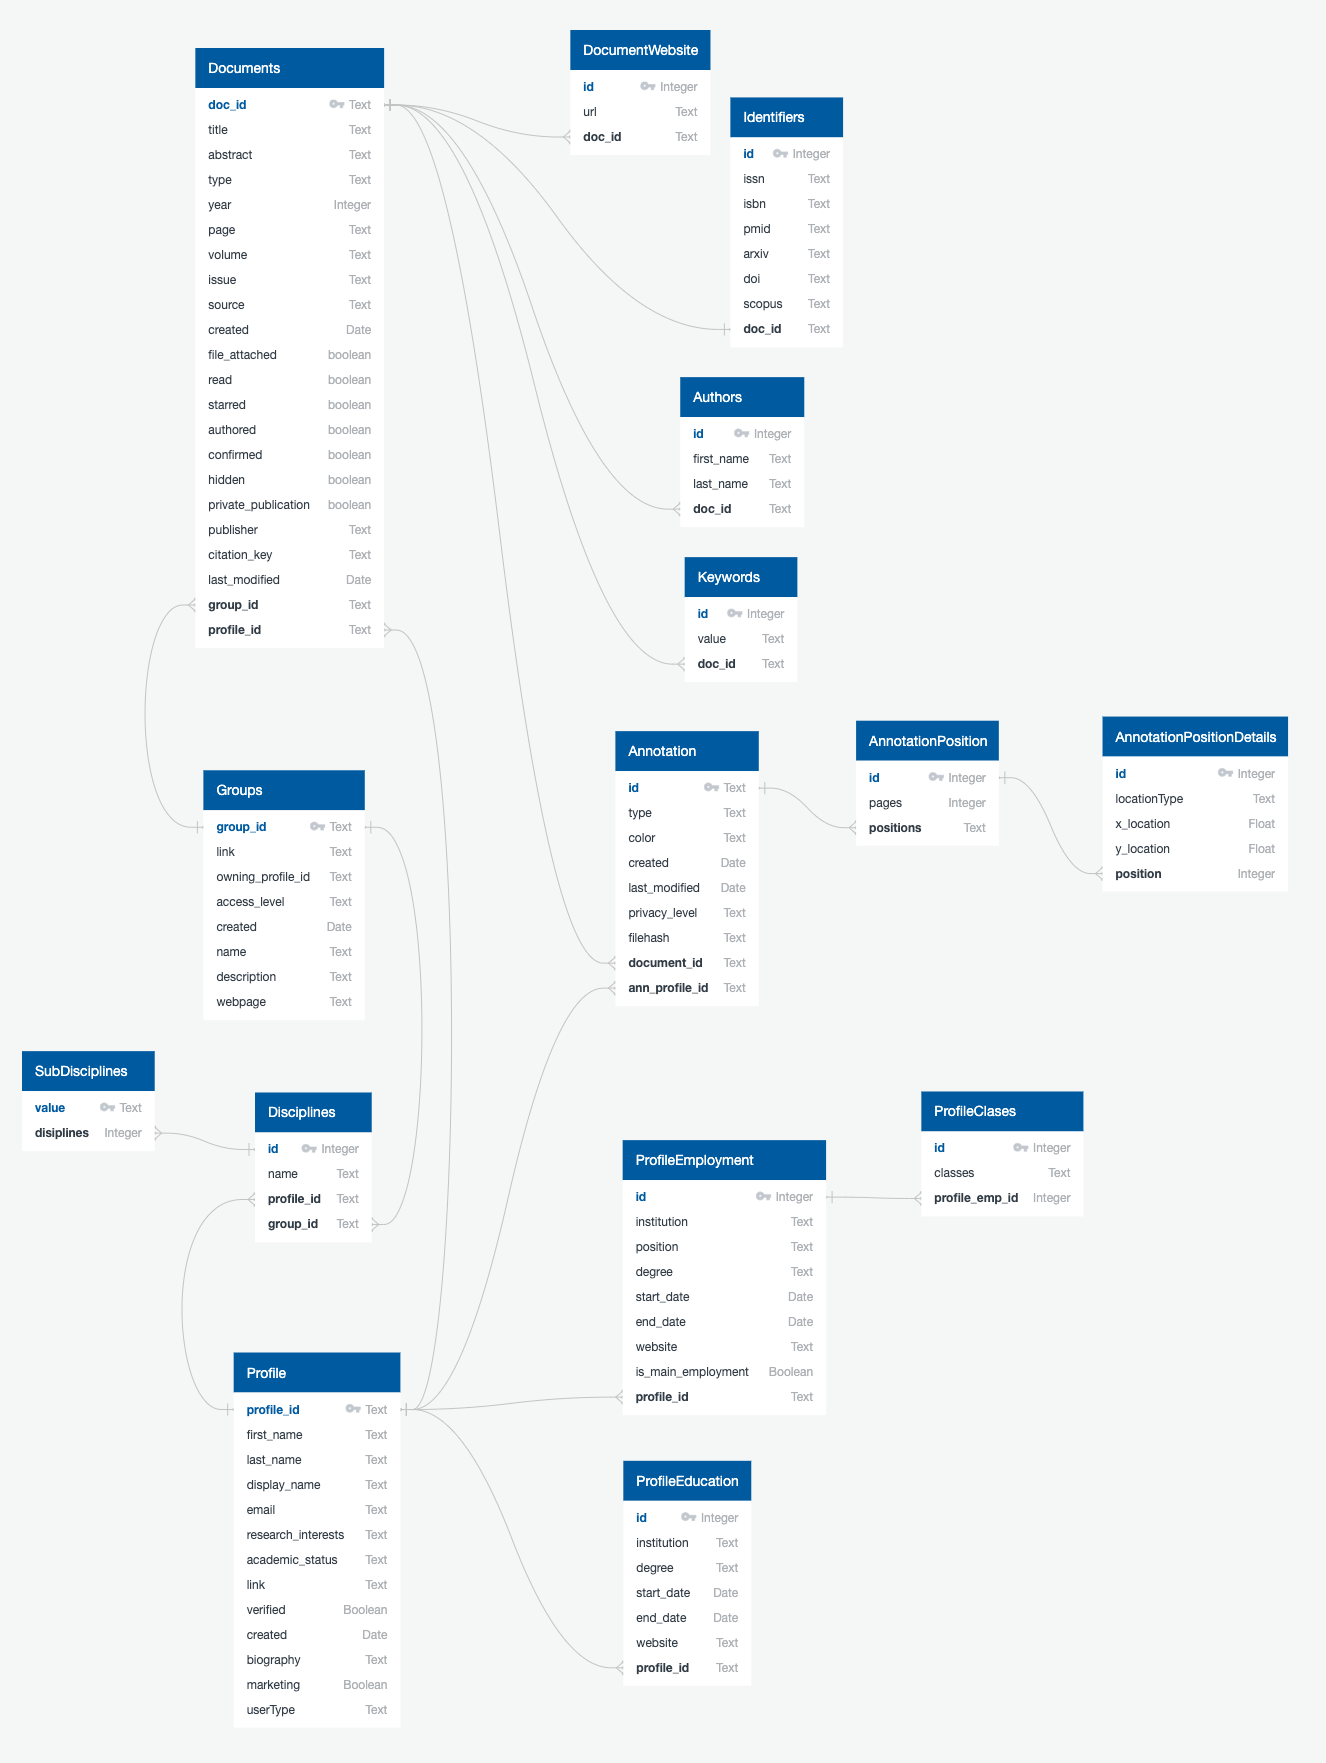
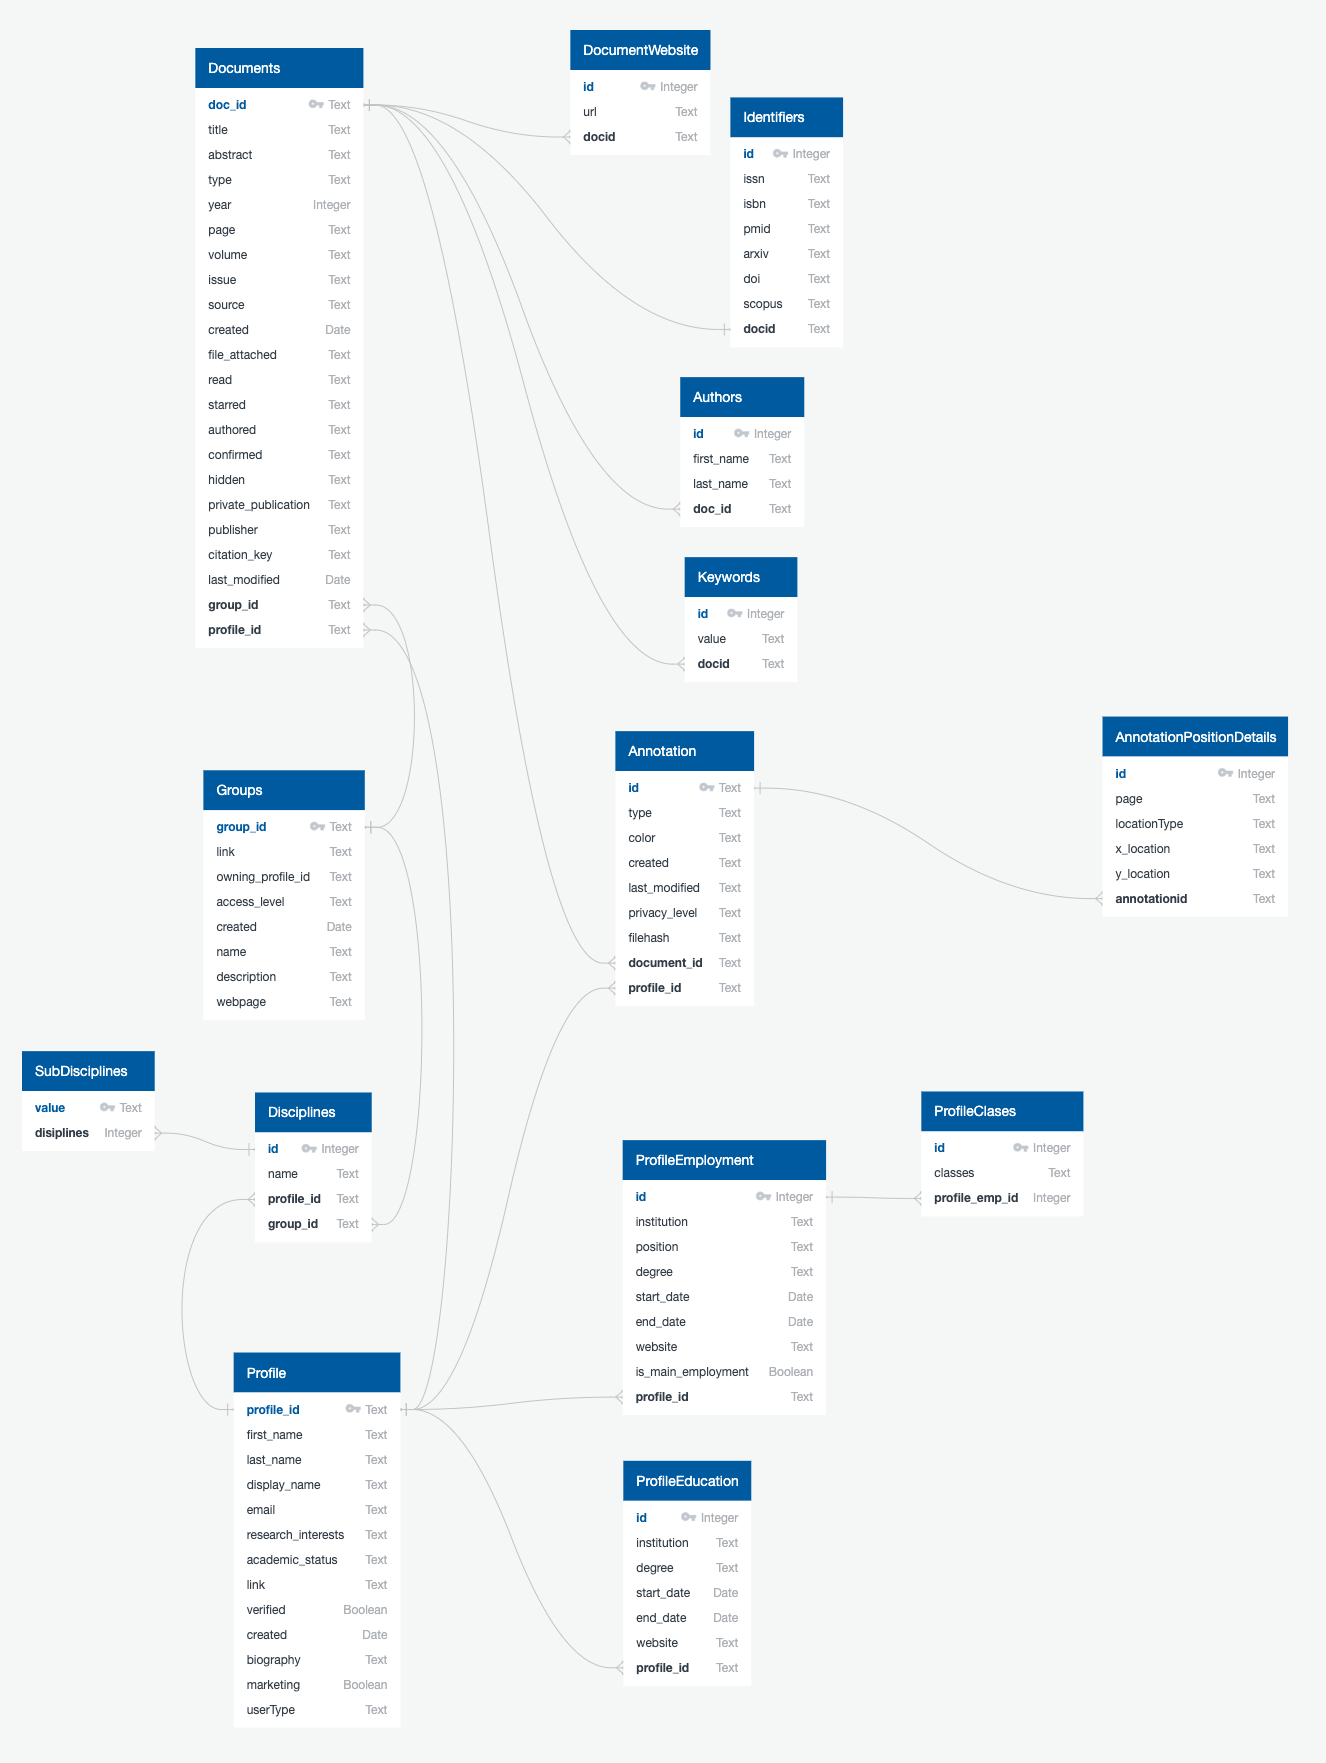
Mendeley Data Extraction Through Api
Extracting data from API and storing it in a sqlite file

diff --git a/mendeley/database/extract_database.py b/mendeley/database/extract_database.py
@@ -1,12 +1,119 @@
 import os
+import sqlite3
 
 import requests
 import yaml
-from pprint import pprint
 from mendeley import Mendeley
 from mendeley.session import MendeleySession
-from sqlobject import *
+import enum
 
+
+####################
+#   ENUM
+####################
+class TABLE(enum.Enum):
+    CREATE_DOCUMENT_TABLE = "document"
+    CREATE_DOCUMENT_WEBSITE_TABLE = "document_website"
+    CREATE_DOCUMENT_IDENTIFIERS = "identifiers"
+    CREATE_DOCUMENT_AUTHORS = "authors"
+    CREATE_KEYWORDS = "keywords"
+    CREATE_ANNOTATION_TABLE = "annotation"
+    CREATE_ANNOTATION_POSITION_TABLE = "annotation_position"
+
+
+####################
+#   Database Queries
+####################
+CREATE_DOCUMENT_TABLE = """CREATE TABLE IF NOT EXISTS document ( 
+                                id TEXT PRIMARY KEY,
+                                title TEXT,
+                                abstract TEXT,
+                                type TEXT, 
+                                year Integer,
+                                pages TEXT,
+                                volume TEXT,
+                                issue TEXT,
+                                source TEXT,
+                                created TEXT,
+                                file_attached TEXT DEFAULT 'false',
+                                read TEXT DEFAULT 'false',
+                                starred TEXT DEFAULT 'false',
+                                authored TEXT DEFAULT 'false',
+                                confirmed TEXT DEFAULT 'false',
+                                hidden TEXT DEFAULT 'false',
+                                private_publication TEXT DEFAULT 'false',  
+                                publisher TEXT, 
+                                citation_key TEXT,
+                                last_modified TEXT,
+                                group_id TEXT, 
+                                profile_id TEXT);          
+                        """
+CREATE_DOCUMENT_WEBSITE_TABLE = """CREATE TABLE IF NOT EXISTS document_website (
+                                        id Integer PRIMARY KEY AUTOINCREMENT, 
+                                        url TEXT,
+                                        docid TEXT NOT NULL ,
+                                        FOREIGN KEY (docid) REFERENCES document(id));
+                                """
+
+CREATE_DOCUMENT_IDENTIFIERS = """CREATE TABLE IF NOT EXISTS identifiers (
+                                    id Integer PRIMARY KEY AUTOINCREMENT, 
+                                    issn TEXT, 
+                                    isbn TEXT, 
+                                    pmid TEXT, 
+                                    arxiv TEXT, 
+                                    doi TEXT, 
+                                    scopus TEXT, 
+                                    docid TEXT NOT NULL, 
+                                    FOREIGN KEY (docid) REFERENCES document(id)); 
+                              """
+
+CREATE_DOCUMENT_AUTHORS = """CREATE TABLE IF NOT EXISTS authors (
+                                id Integer PRIMARY KEY AUTOINCREMENT, 
+                                first_name TEXT,
+                                last_name TEXT, 
+                                docid TEXT NOT NULL, 
+                                FOREIGN KEY (docid) REFERENCES document(id));
+                          """
+
+CREATE_KEYWORDS = """CREATE TABLE IF NOT EXISTS keywords (
+                        id Integer PRIMARY KEY AUTOINCREMENT,
+                        value TEXT, 
+                        docid TEXT NOT NULL, 
+                        FOREIGN KEY (docid) REFERENCES document(id)); 
+                  """
+
+CREATE_ANNOTATION_TABLE = """
+                            CREATE TABLE IF NOT EXISTS annotation (
+                                id Text PRIMARY KEY,
+                                type Text,
+                                text Text,
+                                color Text,
+                                created Text, 
+                                last_modified Text, 
+                                filehash Text, 
+                                document_id Text, 
+                                profile_id Text,
+                                privacy_level Text, 
+                                FOREIGN KEY (document_id) REFERENCES document(id)); 
+                          """
+
+CREATE_ANNOTATION_POSITION_TABLE = """
+                                    CREATE TABLE IF NOT EXISTS annotation_position (
+                                        id Integer PRIMARY KEY AUTOINCREMENT, 
+                                        page TEXT NOT NULL, 
+                                        location_type TEXT NOT NULL, 
+                                        xvalue TEXT NOT NULL, 
+                                        yvalue TEXT NOT NULL, 
+                                        annotationid TEXT NOT NULL, 
+                                        FOREIGN KEY (annotationid) REFERENCES annotation(id));
+                                    """
+
+
+####################
+#   Configuration
+#       - Mendeley
+#       - Database
+####################
 
 def getConfig(filename: str) -> dict:
     """
@@ -55,14 +162,53 @@ def connect_to_db():
     """
     Connect to the sqlite database
     """
-    db_filename = os.path.abspath('mendeley.sqlite')
-    connection_url = "sqlite:" + db_filename
-    connection = connectionForURI(connection_url)
-    sqlhub.processConnection = connection
-    return sqlhub.processConnection
+    try:
+        db_filename = os.path.abspath('mendeley.sqlite')
+        connection = sqlite3.connect(db_filename)
+        if connection is not None:
+            create_sqlite_table(connection, CREATE_DOCUMENT_TABLE)
+            create_sqlite_table(connection, CREATE_DOCUMENT_WEBSITE_TABLE)
+            create_sqlite_table(connection, CREATE_KEYWORDS)
+            create_sqlite_table(connection, CREATE_DOCUMENT_AUTHORS)
+            create_sqlite_table(connection, CREATE_DOCUMENT_IDENTIFIERS)
+            create_sqlite_table(connection, CREATE_ANNOTATION_TABLE)
+            create_sqlite_table(connection, CREATE_ANNOTATION_POSITION_TABLE)
+            return connection
+        else:
+            raise Exception("Cannot Connect to Database!")
+    except sqlite3.Error as error:
+        print(error)
 
 
-def get_all_document_by_group(session: MendeleySession, groupId: str) -> dict:
+def create_sqlite_table(connection, query: str):
+    cursor = connection.cursor()
+    try:
+        cursor.execute(query)
+    except sqlite3.Error as error:
+        cursor.rollback()
+        print(error)
+    finally:
+        cursor.close()
+
+
+def insert_data(connection, data, table: str):
+    cursor = connection.cursor()
+    try:
+        keys = tuple(data.keys())
+        values = tuple(data.values())
+        insert_query = "INSERT INTO {}{} VALUES {};".format(table, keys, values)
+        cursor.execute(insert_query)
+    except sqlite3.Error as error:
+        print(error)
+    finally:
+        cursor.close()
+
+
+####################
+#   Retrieving Data
+####################
+
+def get_all_document_by_group(session: MendeleySession, groupId: str) -> list:
     """
     Get All the documents by group
     Save the data to database
@@ -72,9 +218,8 @@ def get_all_document_by_group(session: MendeleySession, groupId: str) -> dict:
     if len(groupId) == 0:
         raise ValueError('Mendeley Database: No Group Id Provided!')
     access_token = session.token['access_token']
-    print(access_token)
     headers = {'Authorization': 'Bearer {}'.format(access_token)}
-    params = {'group_id': groupId}
+    params = {'group_id': groupId, 'view': 'all'}
     response = requests.get(url='https://api.mendeley.com/documents', headers=headers, params=params)
     if response.status_code != 200:
         raise requests.RequestException('Mendeley Database: {} - {}'.format(response.status_code, response))
@@ -108,7 +253,7 @@ def get_annotations_by_docId(session: MendeleySession, docid: str):
     """
     if session is None:
         raise ValueError('Mendeley Database: No Session Token Provided!')
-    if len(docid)== 0:
+    if len(docid) == 0:
         raise ValueError('Retrieve Annotation By Id: {} - Invalid Document Id!'.format(docid))
     else:
         access_token = session.token['access_token']
@@ -121,10 +266,100 @@ def get_annotations_by_docId(session: MendeleySession, docid: str):
             content = response.json()
             return content
 
+
+####################
+#   Cleaning Data
+####################
+def clean_document_data(connection, response: list):
+    """
+    Clean Document Detail
+    Insert it into Database
+    @param connection:
+    @param response:
+    @return:
+    """
+    if len(response) == 0:
+        raise ValueError("No Data Retrieved!")
+    else:
+        documents_list = []
+        for data in response:
+            if data is not None:
+                doc = {key: str(value) for (key, value) in data.items() if
+                       (key != "authors") and (key != "identifiers") and
+                       (key != "keywords") and (key != "websites")}
+                insert_data(connection, doc, TABLE.CREATE_DOCUMENT_TABLE.value)
+                # Get the authors of the document
+                doc_id = data.get("id")
+                for author in data.get("authors"):
+                    authorDetails = {}
+                    authorDetails.__setitem__("docid", doc_id)
+                    authorDetails.__setitem__("first_name", author.get("first_name"))
+                    authorDetails.__setitem__("last_name", author.get("last_name"))
+                    insert_data(connection, authorDetails, TABLE.CREATE_DOCUMENT_AUTHORS.value)
+
+                # Get the Document Website
+                if data.get("websites") is not None:
+                    for website in data.get("websites"):
+                        website_dict = {}
+                        website_dict.__setitem__("url", website)
+                        website_dict.__setitem__("docid", doc_id)
+                        insert_data(connection, website_dict, TABLE.CREATE_DOCUMENT_WEBSITE_TABLE.value)
+                else:
+                    print("No Website URL Found For DocumentID - {}".format(doc_id))
+
+                # Get the Identifiers
+                identifiers = {key: value for (key, value) in data.get("identifiers").items()}
+                identifiers.__setitem__("docid", doc_id)
+                insert_data(connection, identifiers, TABLE.CREATE_DOCUMENT_IDENTIFIERS.value)
+
+                if data.get("keywords") is not None:
+                    # Get the Keywords
+                    for keyword in data.get("keywords"):
+                        keyWord = {}
+                        keyWord.__setitem__("value", keyword)
+                        keyWord.__setitem__("docid", doc_id)
+                        insert_data(connection, keyWord, TABLE.CREATE_KEYWORDS.value)
+
+
+def clean_annotation_data(connection, response):
+    """
+    Clean Annotation Details
+    @param connection:
+    @param data:
+    @return:
+    """
+    if len(response) == 0:
+        raise ValueError("No Data Retrieved!")
+    else:
+        for data in response:
+            annotation = {key: str(value) for (key, value) in data.items() if
+                          (key != "positions") and (key != "color")}
+            annotation.__setitem__("color", "#%02x%02x%02x" % tuple(data.get("color").values()))
+            insert_data(connection, annotation, TABLE.CREATE_ANNOTATION_TABLE.value)
+            for ap in data.get("positions"):
+                annotationPosition = {key: str(value) for (key, value) in ap.items() if key == "page"}
+                annotationPosition.__setitem__("annotationid", data.get("id"))
+                for key, value in ap.items():
+                    if key == "top_left" or key == "bottom_right" or key == "top_right" or key == "bottom_left":
+                        annotationPosition.__setitem__("location_type", key)
+                        for xKey, yValue in ap.get(key).items():
+                            if xKey == "x":
+                                annotationPosition.__setitem__("xvalue", str(yValue))
+                            else:
+                                annotationPosition.__setitem__("yvalue", str(yValue))
+                    insert_data(connection, annotationPosition, TABLE.CREATE_ANNOTATION_POSITION_TABLE.value)
+
+
 if __name__ == '__main__':
+    if os.path.exists("mendeley.sqlite"):
+        os.remove("mendeley.sqlite")
     config = getConfig('config.yaml')
     session = connect_to_mendeley_db(config)
-    connect_to_db()
-    pprint(get_all_document_by_group(session, "a6921378-5d32-3644-961a-c3b6bd1d65f7"))
-    # pprint(get_users_profile(session))
-    # pprint(get_annotations_by_docId(session, "b477c17a-53b4-307f-8c8e-b91a97a52a51"))
+    connection = connect_to_db()
+    document = get_all_document_by_group(session, "a6921378-5d32-3644-961a-c3b6bd1d65f7")
+    connection.commit()
+    clean_document_data(connection, document)
+    for eachDoc in document:
+        annotation = get_annotations_by_docId(session, eachDoc.get("id"))
+        clean_annotation_data(connection, annotation)
+        connection.commit()

diff --git a/mendeley/database/README.md b/mendeley/database/README.md
@@ -28,5 +28,9 @@ Config.yaml:
     - username: "Your Mendeley Desktop Username"
     - password: "Your Mendeley Desktop Password"
 
+Ouput: 
+    - Run extract_database.py 
+    - It will generate a mendeley.sqlite file containing required data
+
 Database:
     ![alt Document Schema](../readme/database_schema.png)
